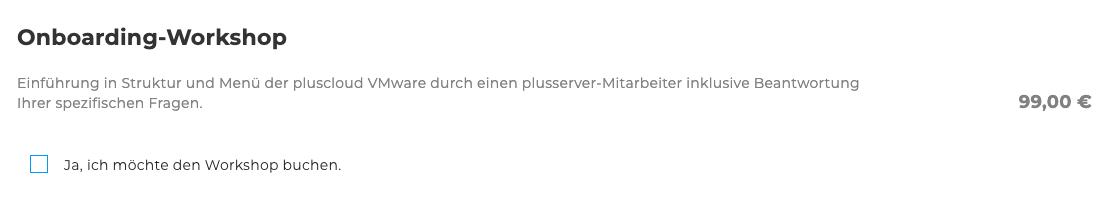
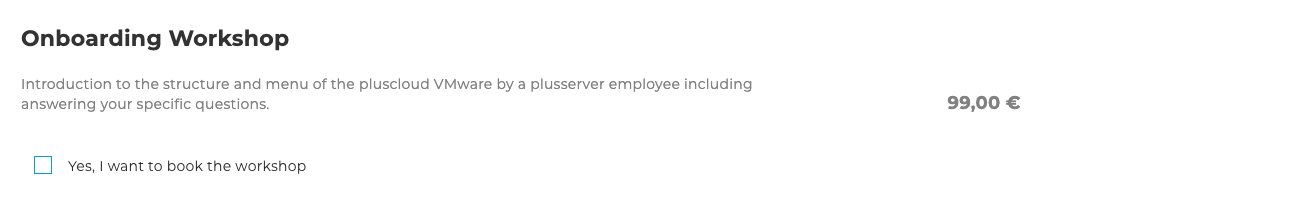
feat: add pcv in en

diff --git a/content/en/cloudhub/step-by-step-guide/order-wizards/pcv/pcv.md b/content/en/cloudhub/step-by-step-guide/order-wizards/pcv/pcv.md
@@ -7,16 +7,62 @@ description: >
     Step by Step Guide for pluscloud VMware
 ---
 
-## Einleitung
+## Introduction
 
-Wilkommen zum Bestellforumular der pluscloud VMware. Hier wird beschrieben, welche Konfigurationsmöglichkeiten es gibt und wie eine neue pluscloud VMware bestellt werden kann.
+Welcome to the PlusCloud VMware order wizard. Here it is described which configuration options are available and how a new PlusCloud VMware can be ordered.
 
-![alt text](../../../../img/cloud-services/cloud-services-level3.png)
+In the following we guide you step by step through the ordering process and explain the individual selection options and input fields.
 
-![alt text](../img/pcv-cpu.png)
+![PCV Overview](../../../../img/cloud-services/cloud-services-level3.png)
 
-![alt text](../img/pcv-admin.png)
+## Step 1: Selection of the CPU category
 
-![alt text](../img/pcv-onboarding.png)
+In the first step, select the CPU category for your VMware:
 
-![alt text](../img/pcv-project.png)
+- **Standard CPU**
+    - at least 2 GHz
+    - no GPU support
+- **High CPU**
+    - at least 3 GHz
+    - GPU support available
+
+In addition, further options and prices can be viewed via a dropdown menu:
+
+- RAM
+- Performance Storage
+- High performance storage
+- Performance Storage (Georedundant)
+- High Performance Storage (Georedundant)
+- Windows server license
+- Red has Rhel license
+- VM backup
+- backup volume
+- Public IP addresses
+
+![PCV CPU Selection](../img/pcv-cpu.png)
+
+## Step 2: Information for the administrator
+
+Here you enter the data of the responsible contact person:
+
+- first and last name (Required field)
+- Email address (Required field)
+- Brief description (optional)
+
+![PCV Administrator Angaben](../img/pcv-admin.png)
+
+## Step 3: Onboarding workshop
+
+Optionally, an onboarding workshop can be booked for 99 €.
+This workshop supports you in the introduction and use of the PlusCloud VMware.
+
+![PCV Onboarding](../img/pcv-onboarding.png)
+
+## Step 4: Project Contract ID
+
+Select whether a project contract ID already exists:
+
+- New project contract ID
+- Existing project contract ID (select from a list)
+
+![PCV Projektvertragskennung](../img/pcv-existing-project.png)
